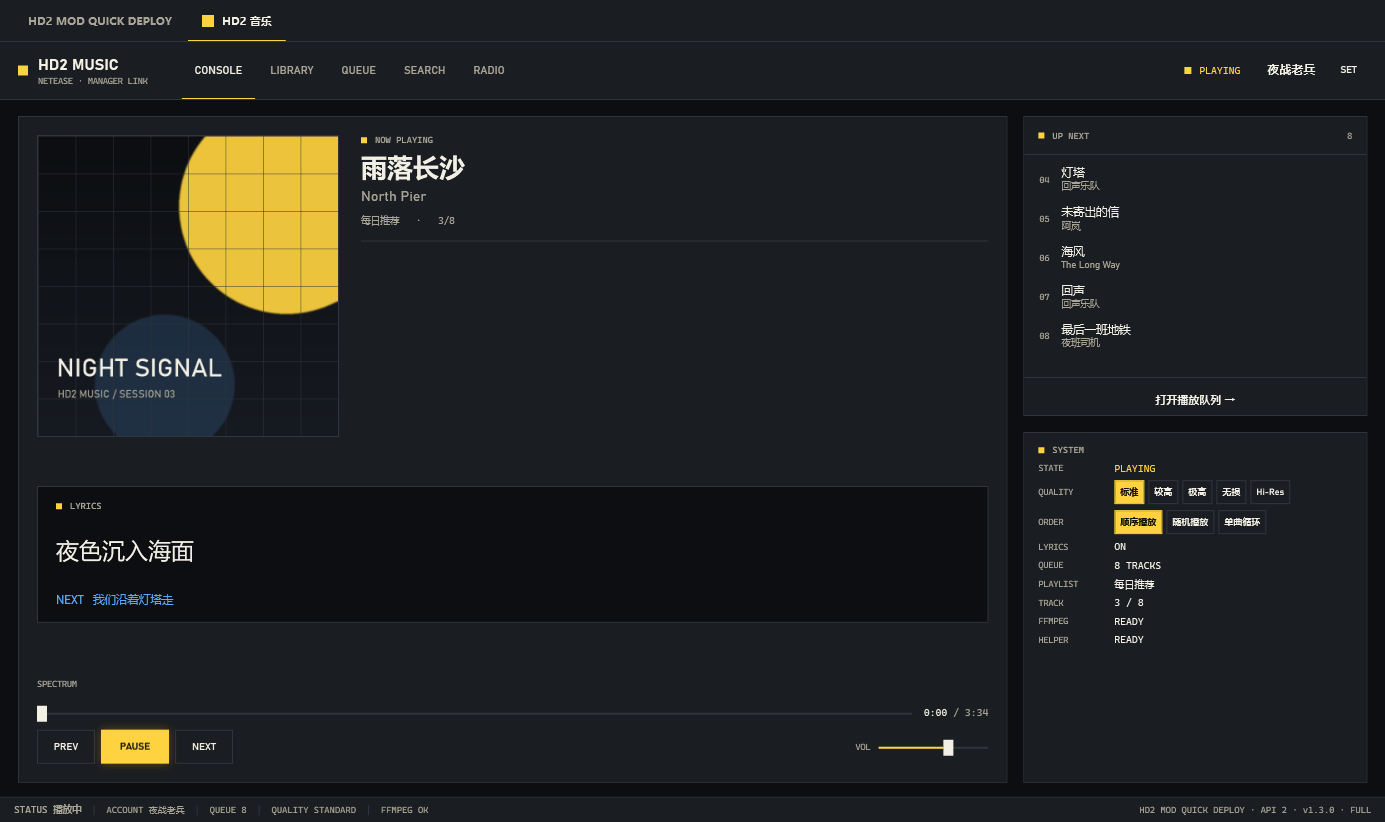
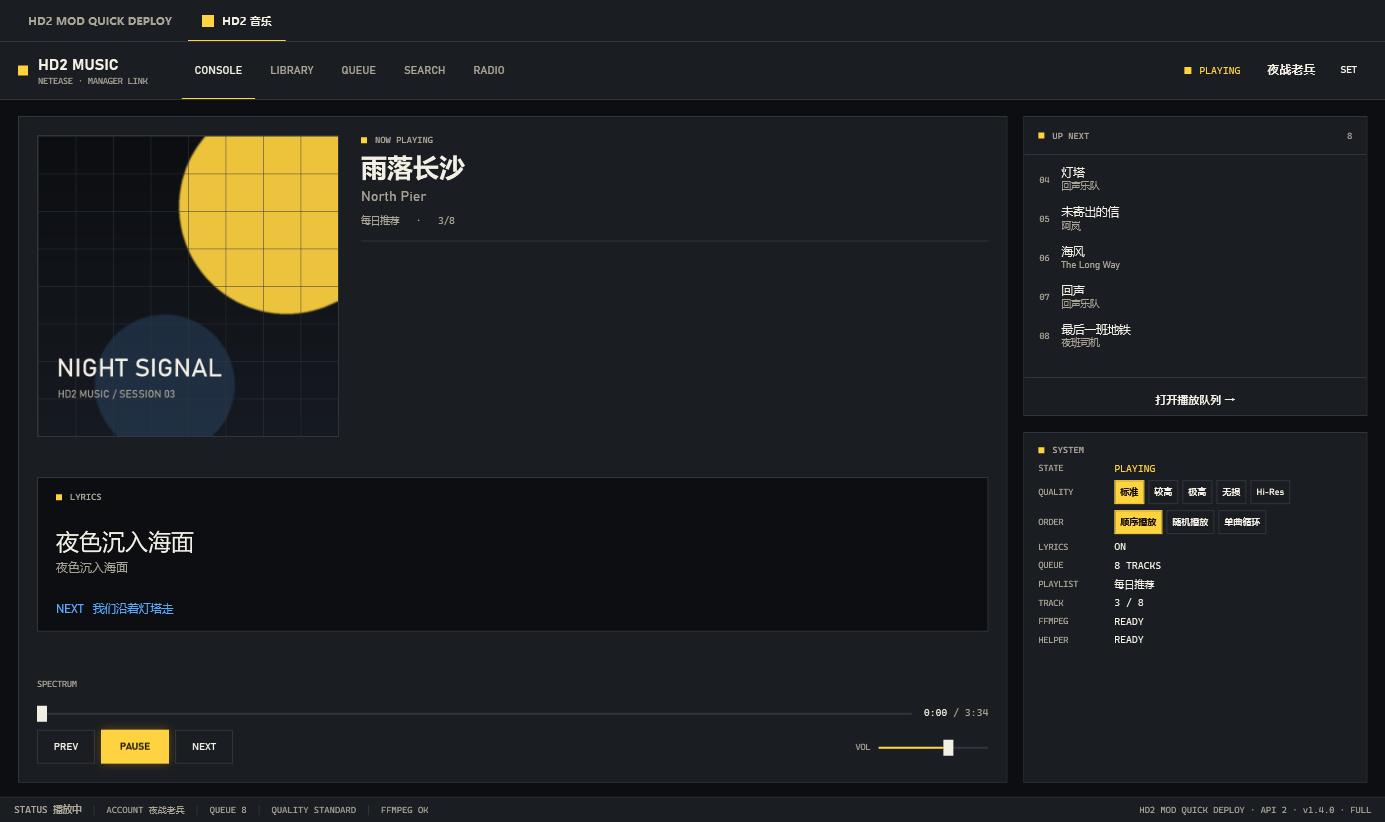
docs: helper parity completed and release 1.4.0

Changed region(s): [[0.031, 0.6387, 0.1552, 0.7603], [0.031, 0.5779, 0.0931, 0.6083]]

diff --git a/src/PlayerView.cs b/src/PlayerView.cs
@@ -445,7 +445,7 @@ namespace Hd2Qd.HD2Music
             DockPanel dock = new DockPanel { Margin = new Thickness(14.0, 0.0, 14.0, 0.0), LastChildFill = false };
             TextBlock version = new TextBlock
             {
-                Text = "HD2 MOD QUICK DEPLOY · API 2 · v1.3.0 · " + (Ffmpeg.Embedded ? "FULL" : "LITE"),
+                Text = "HD2 MOD QUICK DEPLOY · API 2 · v1.4.0 · " + (Ffmpeg.Embedded ? "FULL" : "LITE"),
                 FontFamily = Theme.Font("Mono"),
                 FontSize = 9.0,
                 Foreground = Theme.Muted,
@@ -1513,7 +1513,7 @@ namespace Hd2Qd.HD2Music
             body.Children.Add(links);
             body.Children.Add(new TextBlock
             {
-                Text = "插件 HD2QD.HD2Music 1.3.0 · " + (Ffmpeg.Embedded ? "内置解码器" : "外置解码器") + " · MIT",
+                Text = "插件 HD2QD.HD2Music 1.4.0 · " + (Ffmpeg.Embedded ? "内置解码器" : "外置解码器") + " · MIT",
                 FontFamily = Theme.Font("Mono"),
                 FontSize = 9.0,
                 Foreground = Theme.Muted,

diff --git a/src/Engine.cs b/src/Engine.cs
@@ -2263,7 +2263,7 @@ public sealed class Engine : IDisposable
 			}
 			else
 			{
-				_recommendMore = "";
+				_recommendMore = "ready";
 				_recommendOffset = 0;
 				offset = 0;
 				exclude = new HashSet<string>(StringComparer.Ordinal);
@@ -2285,7 +2285,7 @@ public sealed class Engine : IDisposable
 					_recommended.AddRange(page.Rows);
 					_recommendOffset = page.Offset;
 					_recommendState = "ready";
-					_recommendMore = page.More ? "ready" : "end";
+					_recommendMore = more ? (page.More ? "ready" : "end") : "ready";
 				}
 			}
 			catch (Exception ex)

diff --git a/README.md b/README.md
@@ -115,13 +115,13 @@ Elsewhere:
 
 ## Compatibility
 
-The state writer was checked field by field against `ncm_online_helper.py` 1.2.3's `publish()`:
-every row the mod uses for the current song, progress, lyrics (line, word marks, translation,
-timed world cues), queue, cover keys, playlist/recommend/radio/podcast/search lists and the
-spectrum is written. These optional in-game **paging/filter** rows are not, because this player
-loads a fixed page instead of paging: `search_more`, `search_offset`, `radio_keyword`,
-`podcast_filter`, `podcast_filter_serial`, `recommend_more`, `account_loading`. The in-game
-"load more" affordances for those lists therefore do nothing; everything else matches.
+The state writer is checked field by field against `ncm_online_helper.py` 1.2.3's `publish()`:
+current song, progress, lyrics (line, word marks, translation, timed world cues), queue, cover
+keys, playlist/recommend/radio/podcast/search lists, spectrum, and the paging/filter rows
+`search_more`, `search_offset`, `radio_keyword`, `podcast_filter`, `podcast_filter_serial`,
+`recommend_more` and `account_loading` are all written. The game-side "load more" affordances
+therefore work. The tab also exposes 每日推荐, 私人 FM, STOP, radio search and podcast filter,
+plus a verification-state website link and a karaoke prefix preview in the lyric panel.
 
 The player also refuses to play when the mod's heartbeat (`ncm_game_alive.txt`) is absent, which
 is the mod's own rule: start the game, deploy HD2 Music, keep the manager running.
@@ -157,7 +157,7 @@ the fallback window and the login window off-screen. It needs no game, network o
 Current output:
 
 ```
-  ok   assembly name HD2QD.HD2Music, version 1.3.0
+  ok   assembly name HD2QD.HD2Music, version 1.4.0
   ok   target framework .NETFramework,Version=v4.8
   ok   Api = 2 (a const the manager reads before running any code)
   ok   Kind = window
@@ -222,8 +222,8 @@ MIT — see [LICENSE](LICENSE).
 - 插件与 Python 助手共用 `ncm_helper.lock`，同一时间只有一个解码。助手已在运行（F7 播放）时，
   插件会把点击的播放/切歌/音量/音质等命令写进 `ncm_cmd_*.txt` 转交助手执行；状态栏显示
   “在线助手已接管播放”，标题、进度、歌词从助手状态同步。插件占锁时不写状态与频谱。
-- 状态字段与助手 1.2.3 的 `publish()` 逐项对照；游戏内“加载更多”相关的分页字段未写入，
-  其余当前歌曲、歌词、队列、封面、频谱均一致。
+- 状态字段与助手 1.2.3 的 `publish()` 逐项对照，含游戏内分页/筛选字段：`search_more`、`search_offset`、`radio_keyword`、`podcast_filter`、`podcast_filter_serial`、`recommend_more`、`account_loading`；“加载更多/筛选”可用。
+- 插件页新增每日推荐、私人 FM、STOP、电台搜索、播客筛选；扫码需要安全验证时显示“打开官网”；歌词面板显示逐字高亮预览。
 
 构建：`build.bat`，同时产出 `release\HD2QD.HD2Music.dll`（完整版）与 `release\HD2QD.HD2Music-Lite.dll`（精简版），并分别运行 `tests\Verify.exe` 检查契约、
 资源、依赖与窗口构造。
